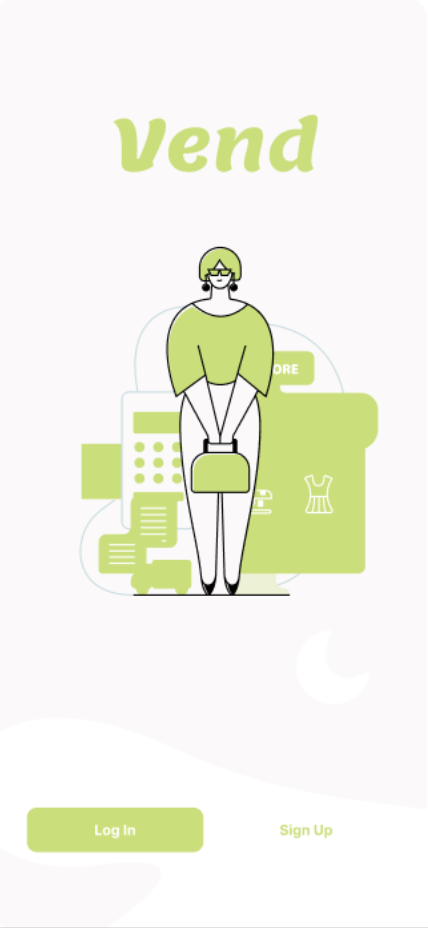
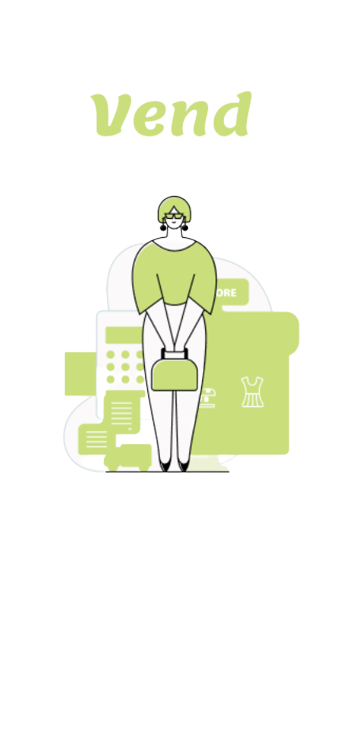
splash screen working now, buttons are weird

diff --git a/Vend/screens/SplashScreen.js b/Vend/screens/SplashScreen.js
@@ -4,26 +4,26 @@ import Constants from 'expo-constants';
 
 import colors from '../styles/colors';
 
-// const image = require('../assets/fremdMerchMainBg.png');
+const image = require('../assets/fremdMerchMainBg.png');
 
-export default function Splash() {
+function SplashScreen() {
   return (
-    //   <ImageBackground source={image} resizeMode='contain' style={styles.logo}>
+      <ImageBackground source={image} resizeMode='contain' style={styles.logo}>
         <View style={styles.buttonHolder}>
-          {/* <Button style={styles.logInButton}
+          <Button style={styles.logInButton}
             title="log in"
           />
           <Button style={styles.signUpButton}
             title="sign up"
-          /> */}
+          />
         </View>
-    //   </ImageBackground>
+      </ImageBackground>
   );
 }
 
 const styles = StyleSheet.create({
   logInButton: {
-    width: 130,
+    width: 200,
     height: 35,
     backgroundColor: colors.main,
     marginBottom: 50,
@@ -32,7 +32,7 @@ const styles = StyleSheet.create({
     alignItems: 'center',
   },
   signUpButton: {
-    width: 130,
+    width: 200,
     height: 35,
     backgroundColor: colors.lightGrey,
     marginBottom: 50,
@@ -43,12 +43,13 @@ const styles = StyleSheet.create({
   },
   buttonHolder: {
     flexDirection: 'row',
-    padding: 'margin',
+    padding: 10,
     justifyContent: 'center',
     alignItems: 'center',
-    marginTop: 606,
+    marginTop: 565,
   },
   logo: {
     flex: 1,
   }
 });
+export default SplashScreen;
